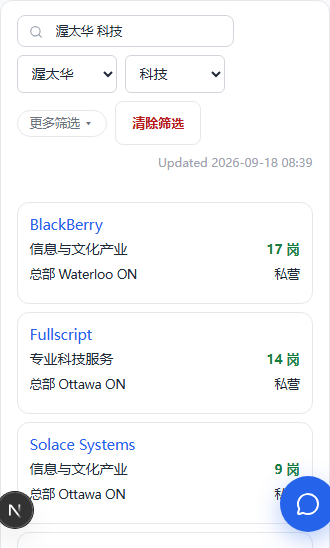
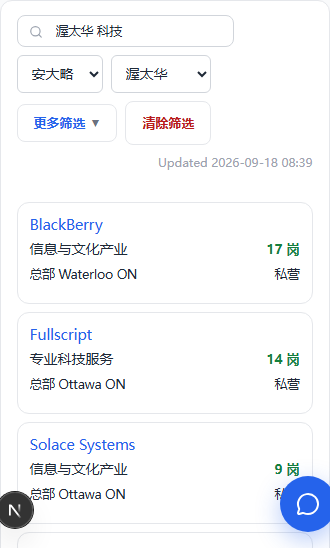
docs(design): 雇主板筛选行逐位照职位板布局,省下拉加回(Frank「可以参考下 job 页面的布局吗」「省份筛选加了吗」)[skip render]

diff --git a/docs/design/雇主分类与搜索-20260918.md b/docs/design/雇主分类与搜索-20260918.md
@@ -54,9 +54,16 @@
 
 ## 雇主板
 
-### 筛选行(照职位板形态)
+### 筛选行(照职位板布局,2026-09-18 Frank「可以参考下 job 页面的布局吗」「省份筛选加了吗」)
 
-`搜索 / 城市 / 行业 / 类别 / 经验 / LMIA / 清除筛选 / 字段 / Updated`,**整行全是下拉,不用胶囊开关**(2026-09-18 Frank「这种也设计成下拉框?」):经验 = 经验不限 / 无经验可投;LMIA = LMIA 不限 / 办过 LMIA / 连续办 LMIA(多出「连续办」一档,直接筛到两年都办的那批)。**不出已选胶囊行**(2026-09-18 Frank「这种胶囊的也去掉吧」):搜索认出的维度直接落进对应下拉框显示,改下拉即改筛选。省下拉退役,城市下拉带省(值 = 城市 + 省码,显示照 CityNameCell)。≤640 手机:搜索 + 城市 + 行业露出,类别、经验、LMIA 三个下拉折进「更多筛选」(职位板 foldfilters 同形)。
+职位板的排法 = `搜索 / 省 / 类别 / 大类 / 更多筛选 ▾ / 清除筛选 / …右端 Updated / 字段`。雇主板逐位照抄:
+
+`搜索 / 省 / 城市 / 行业 / 类别 / 更多筛选 ▾ / 清除筛选 / …右端 Updated / 字段 (n)`
+
+- **省下拉保留**(上一版并进城市下拉是错的:职位板第一个下拉就是省,决策页直达链接 `?prov=SK` 也靠它);城市下拉跟着省联动,只列该省城市。
+- 「更多筛选」折叠区放经验(经验不限 / 无经验可投)与 LMIA(LMIA 不限 / 办过 LMIA / 连续办 LMIA)两个下拉,钮形照职位板(secondary + 三角)。**整行全是下拉与钮,不用胶囊开关**(Frank「这种也设计成下拉框?」)。
+- **不出已选胶囊行**(Frank「这种胶囊的也去掉吧」):搜索认出的维度直接落进对应下拉框显示,改下拉即改筛选。
+- ≤640 手机:搜索 + 省 + 城市露出,行业、类别与折叠区两项全进「更多筛选」。
 
 ### 搜索:跨列多词(照职位板搜索机器)
 
@@ -168,6 +175,7 @@
 14. 类别格纯文字不用胶囊(Frank「这个不需要显示胶囊」)。
 15. 加「字段」钮自选列,照职位板;指定雇主、LMIA 默认不勾,筛了自动勾(Frank「应该加一个字段按钮」)。第 12 条并入本条。
 16. 点雇主名开公司弹框,与职位板同一件(Frank「雇主弹框也加上」)。
+17. 筛选行逐位照职位板布局;省下拉保留,城市随省联动;经验与 LMIA 进「更多筛选」(Frank「可以参考下 job 页面的布局吗」「省份筛选加了吗」)。
 
 **待拍**:
 - 行业别名表(「科技」= 51 + 54 这类归并)由我填、Frank 抽查 —— 同 Jobillico 映射表做法。
@@ -175,4 +183,4 @@
 
 ## 状态
 
-- 2026-09-18:设计稿 + 五张效果图。同日 Frank「招聘地点去掉吧」「这种胶囊的也去掉吧」「灰注去掉,只留中文名」:列撤、已选行撤、代码灰注撤、LMIA 去限定词、LMIA 列改筛了才出、两枚胶囊开关改下拉、类别格去胶囊、加字段钮、点名开弹框、效果图重拍(桌面多一张 LMIA 态)。
+- 2026-09-18:设计稿 + 五张效果图。同日 Frank「招聘地点去掉吧」「这种胶囊的也去掉吧」「灰注去掉,只留中文名」:列撤、已选行撤、代码灰注撤、LMIA 去限定词、LMIA 列改筛了才出、两枚胶囊开关改下拉、类别格去胶囊、加字段钮、点名开弹框、筛选行照职位板重排并加回省下拉、效果图重拍(桌面多一张 LMIA 态)。
